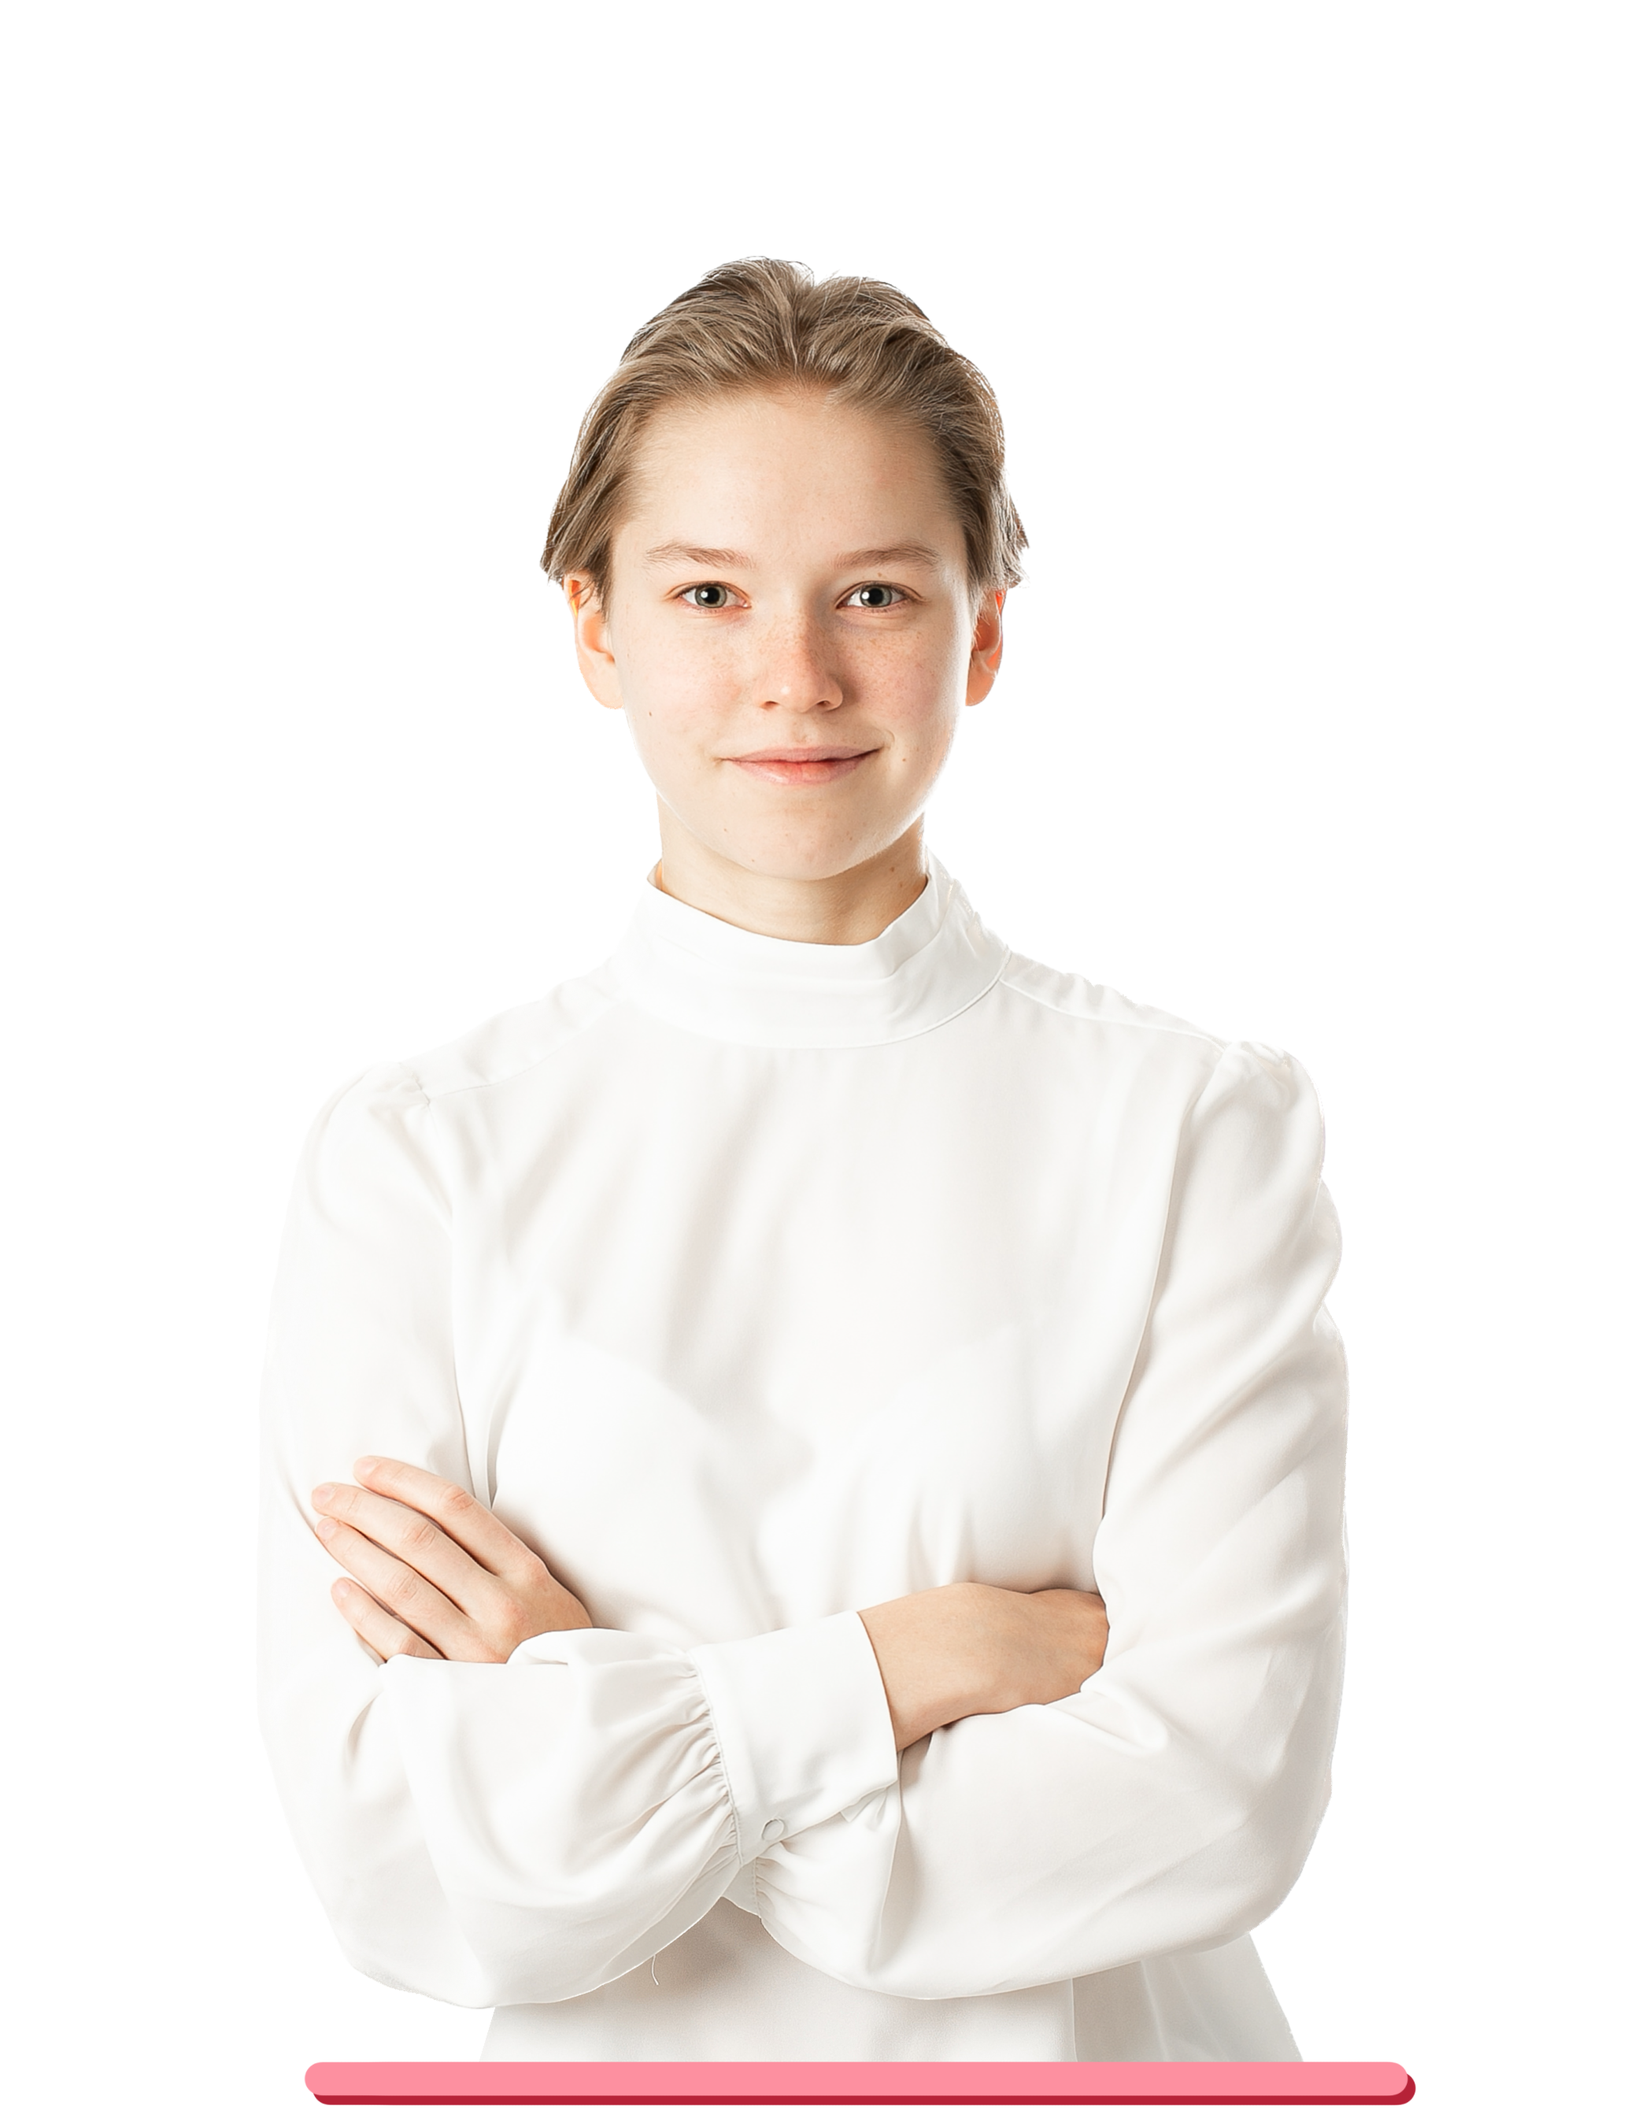
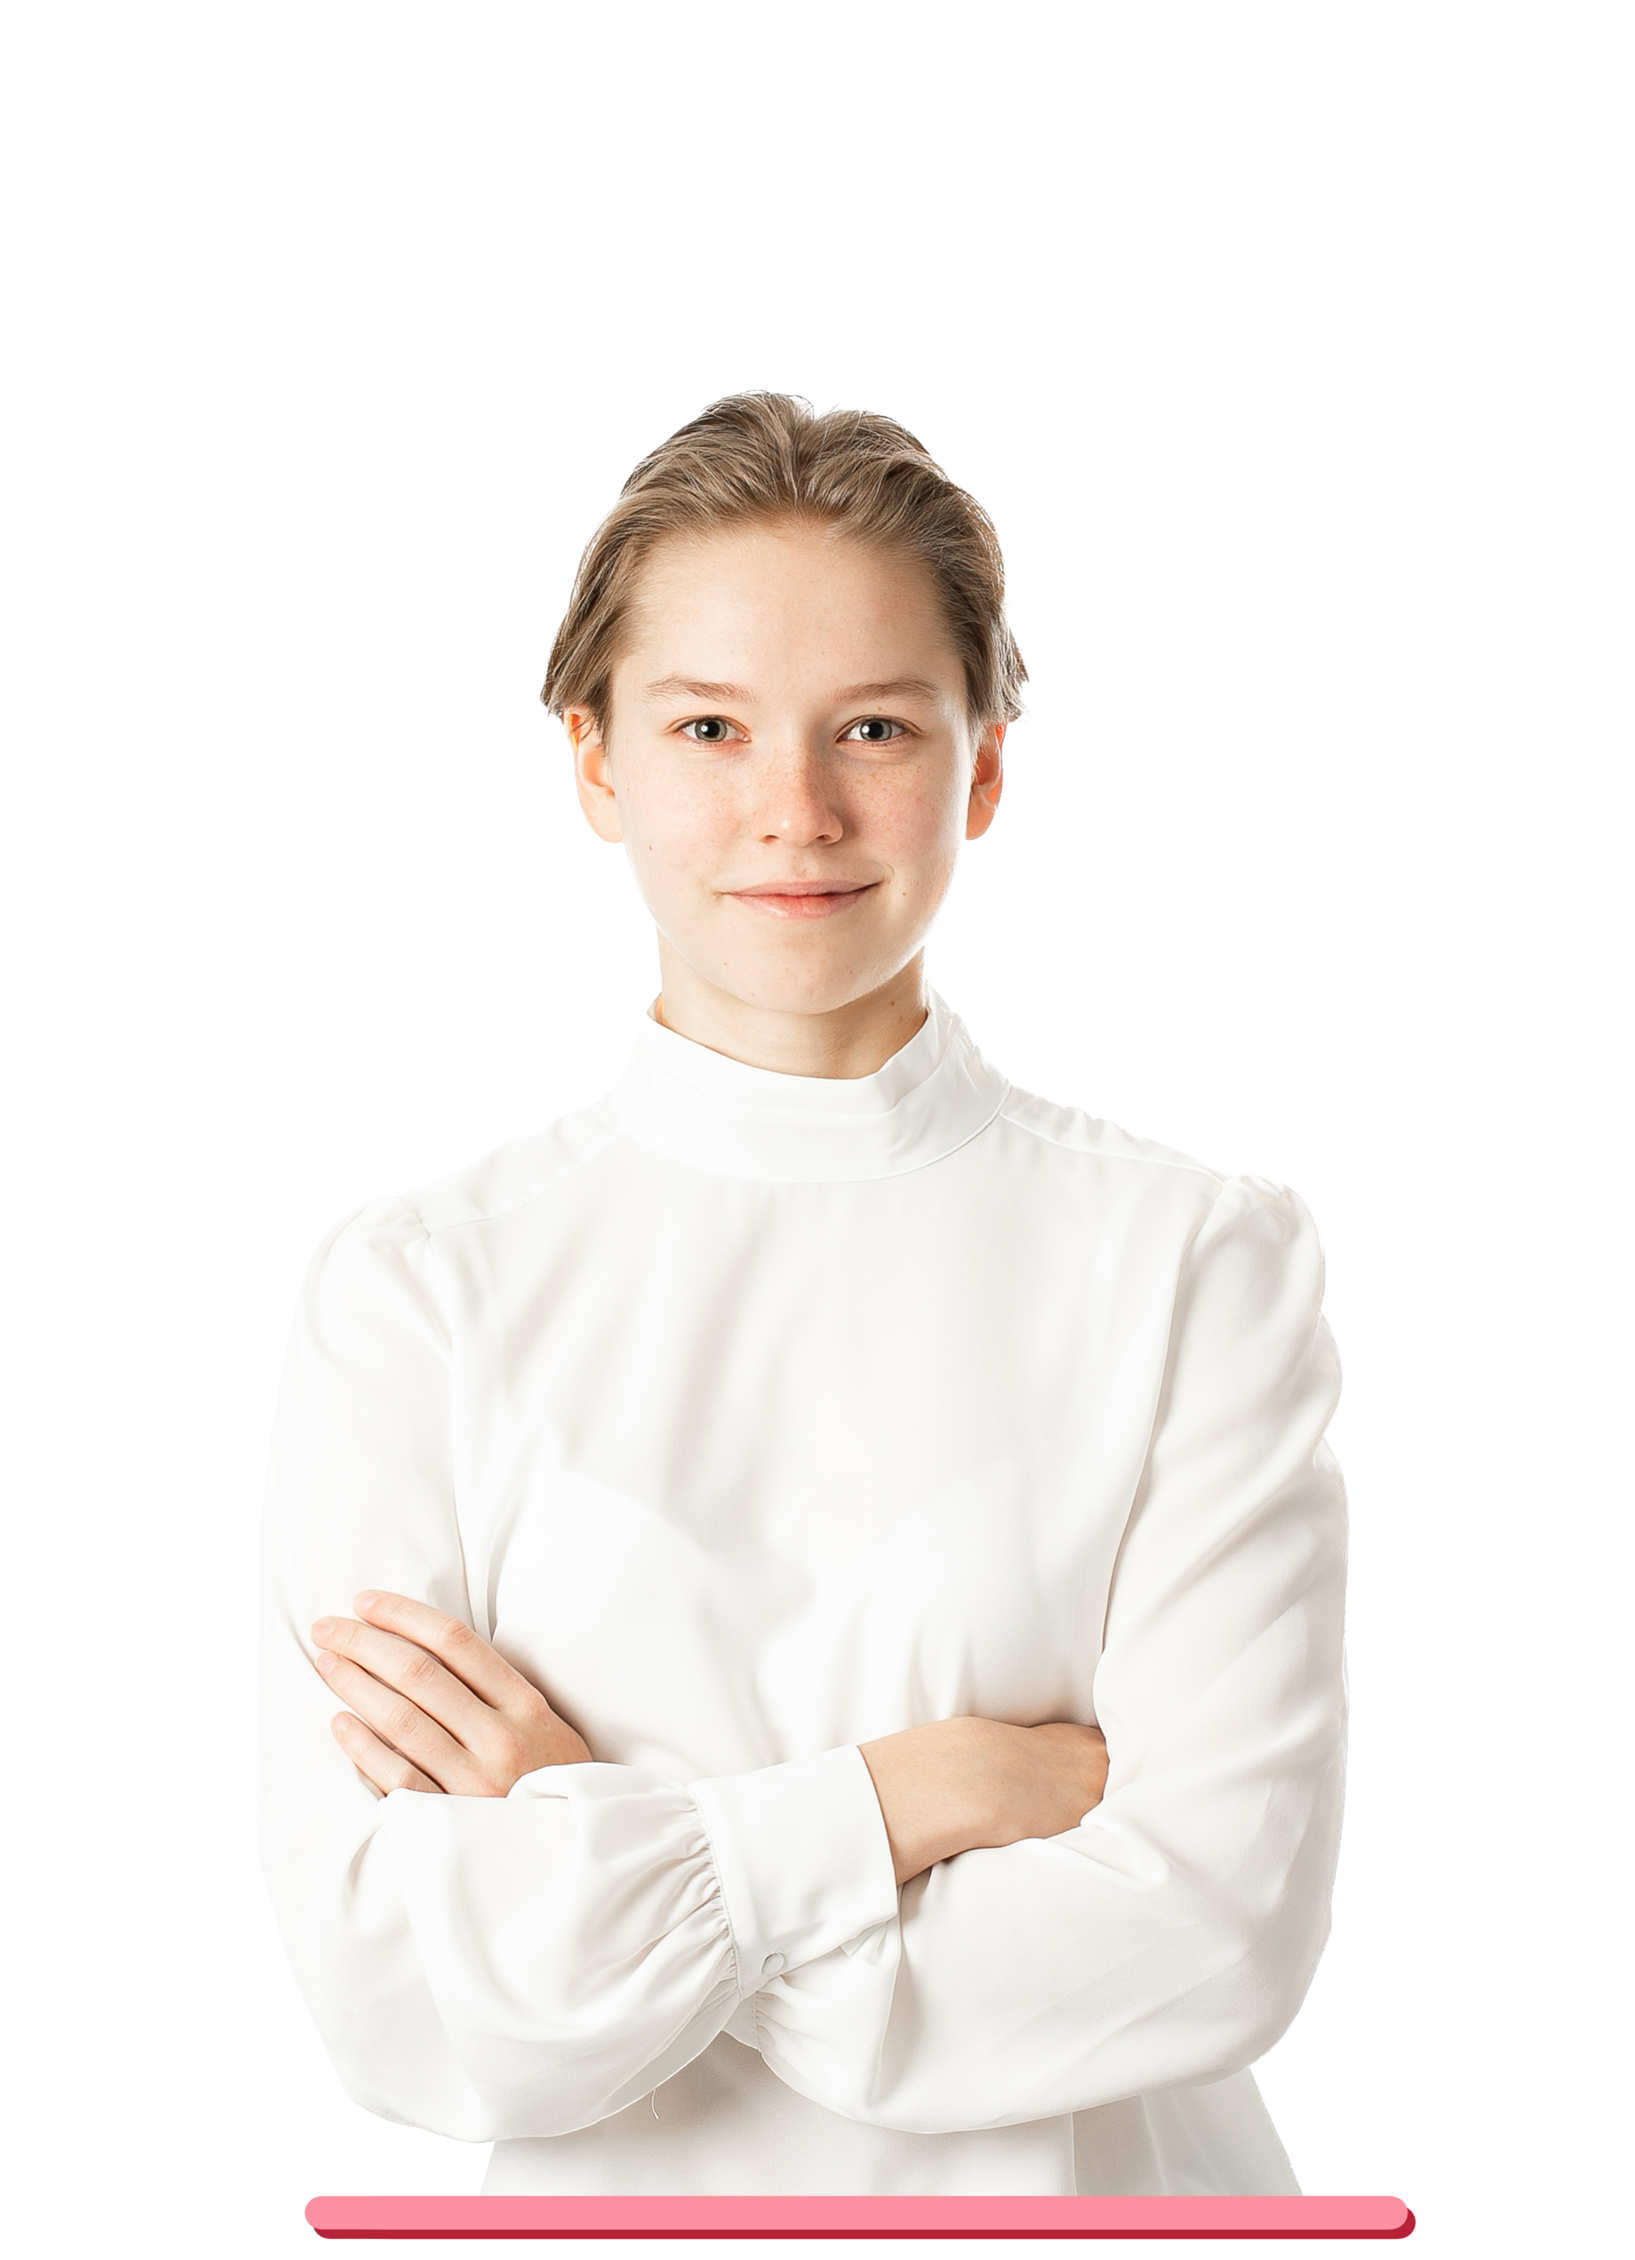
text updates on several pages

diff --git a/style.css b/style.css
@@ -132,19 +132,29 @@ a {
 
 
 .container {
-    display:grid;
-    grid-template-columns: 60% 40%;
+    display:flex;
     align-items: center;
+    justify-content: center;
+    margin-top: 0;
 }
 
 .text {
-    grid-column: 1;
+    width: 50%;
     
 }
 
 .image {
-    grid-column: 2;
-    
+    width: 30%;
+    height: 1100px;
+    background-image: url("images/headshot.png");
+    background-size: 100%;
+    background-position: center;
+    background-repeat: no-repeat;
+    transition: background-image 0.35s;
+}
+
+.image:hover {
+    background-image: url("images/headshot_hover.png");
 }
 
 .edubox {
@@ -236,7 +246,7 @@ a {
 
 .hidden {
     opacity:0;
-    transition: all 2s;
+    transition: transform 2s, opacity 2s, background-image 0.35s;
     transform: translateY(50px);
 }
 

diff --git a/index.html b/index.html
@@ -23,7 +23,9 @@
         
             <p>Feel free to connect with me on <a href="https://www.linkedin.com/in/franka-bauer">LinkedIn</a> or to send me an <a href= "mailto:franka.bauer@outlook.de"> Email</a></p></div>
         </div>
-        <div class="image hidden"><img src="images/headshot.png" width="97%"></div>
+        <div class="image hidden">
+            
+        </div>
         </div>
         
     </body>
